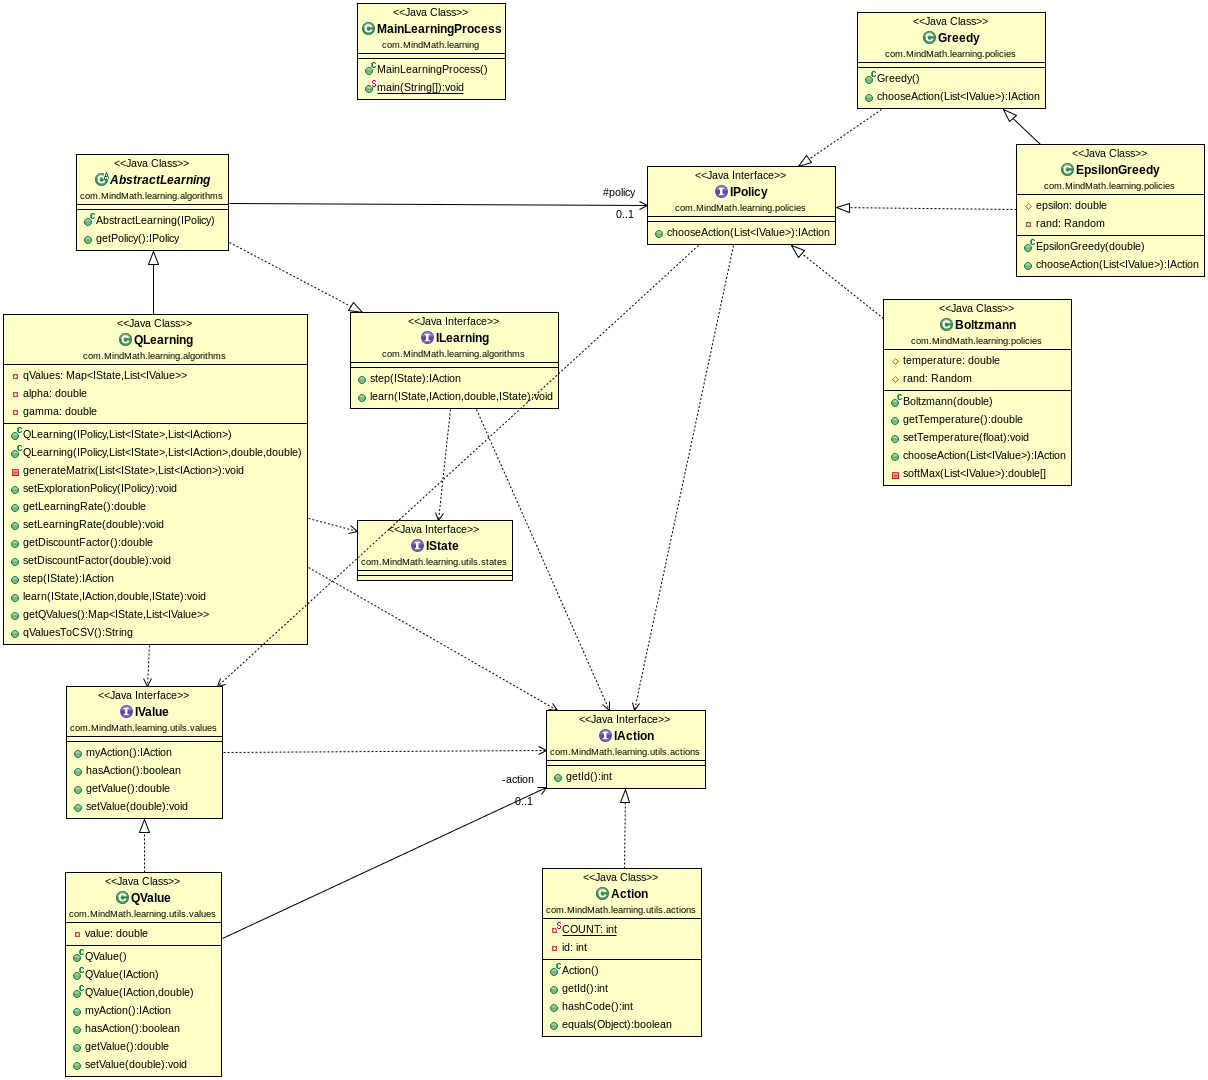
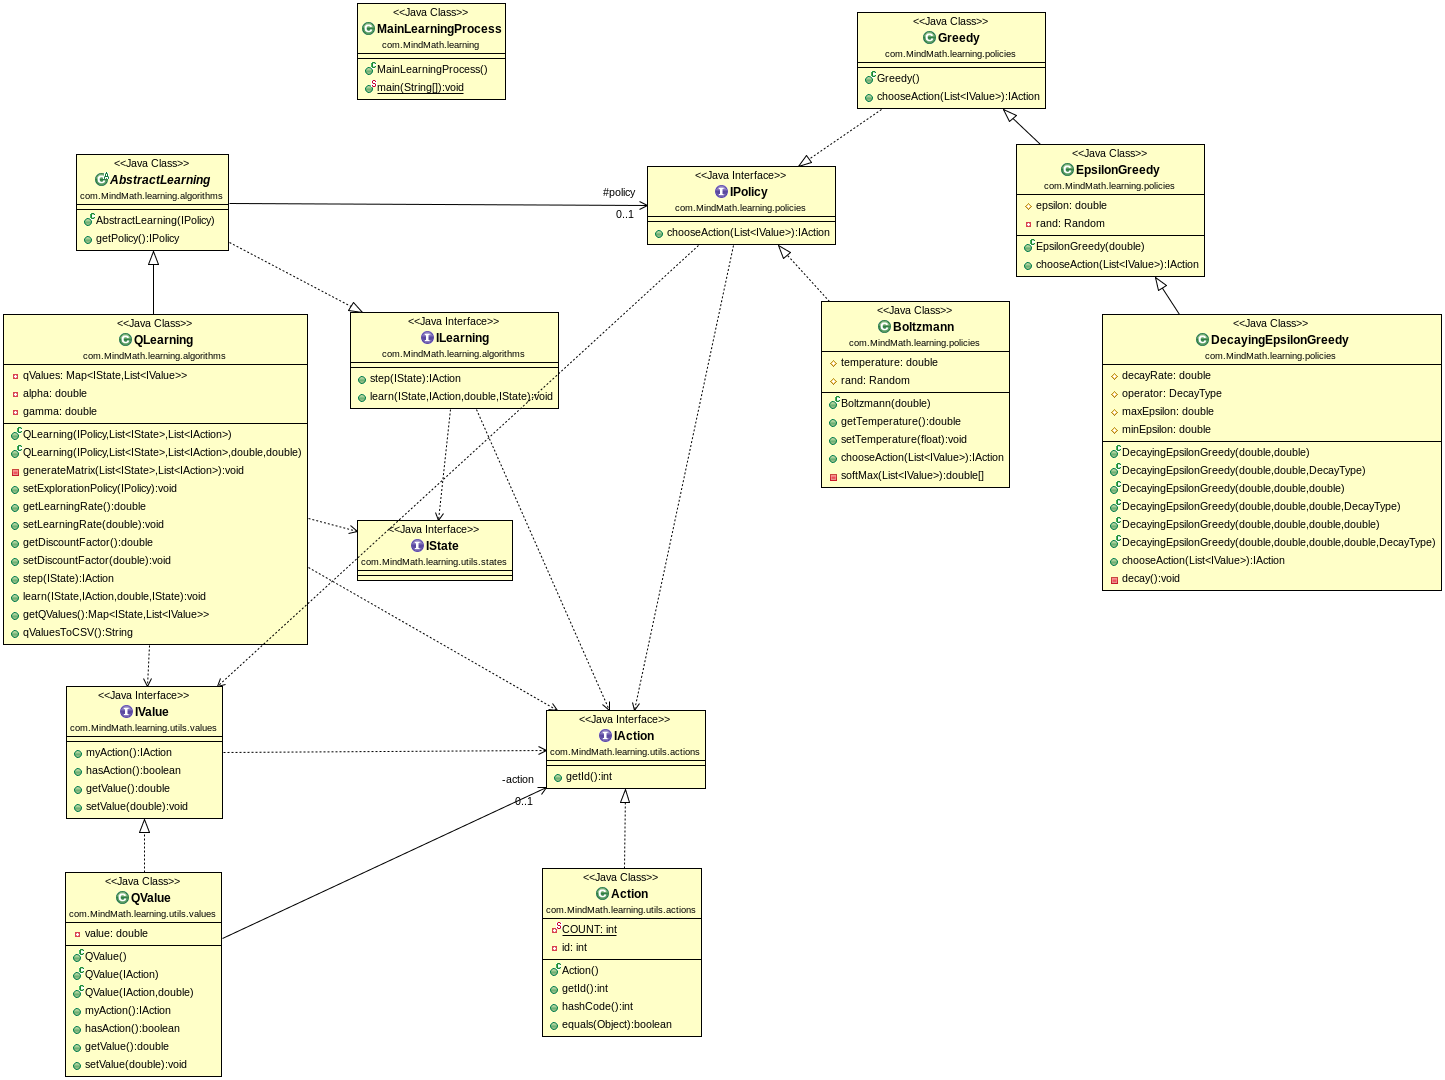
Decaying Epsilon Greedy policy

diff --git a/src/main/java/com/MindMath/learning/policies/DecayingEpsilonGreedy.java b/src/main/java/com/MindMath/learning/policies/DecayingEpsilonGreedy.java
@@ -1,0 +1,121 @@
+/**
+ *
+ */
+package com.MindMath.learning.policies;
+
+import java.util.List;
+
+import com.MindMath.learning.utils.actions.IAction;
+import com.MindMath.learning.utils.values.IValue;
+
+/**
+ * @author Thibaut SIMON-FINE
+ *
+ */
+public class DecayingEpsilonGreedy extends EpsilonGreedy {
+	protected double decayRate;
+	protected DecayType operator;
+	protected double maxEpsilon;
+	protected double minEpsilon;
+
+	/**
+	 * @param epsilon
+	 * @param decayRate
+	 */
+	public DecayingEpsilonGreedy(double epsilon, double decayRate) {
+		this(epsilon, decayRate, 0, 1, DecayType.SUBSTRACT);
+	}
+
+	/**
+	 * @param epsilon
+	 * @param decayRate
+	 * @param operation
+	 */
+	public DecayingEpsilonGreedy(double epsilon, double decayRate, DecayType operation) {
+		this(epsilon, decayRate, 0, 1, operation);
+	}
+
+	/**
+	 * @param epsilon
+	 * @param decayRate
+	 * @param minEpsilon
+	 */
+	public DecayingEpsilonGreedy(double epsilon, double decayRate, double minEpsilon) {
+		this(epsilon, decayRate, minEpsilon, 1, DecayType.SUBSTRACT);
+	}
+
+	/**
+	 * @param epsilon
+	 * @param decayRate
+	 * @param minEpsilon
+	 * @param operation
+	 */
+	public DecayingEpsilonGreedy(double epsilon, double decayRate, double minEpsilon, DecayType operation) {
+		this(epsilon, decayRate, minEpsilon, 1, operation);
+	}
+
+	/**
+	 * @param epsilon
+	 * @param decayRate
+	 * @param minEpsilon
+	 * @param maxEpsilon
+	 */
+	public DecayingEpsilonGreedy(double epsilon, double decayRate, double minEpsilon, double maxEpsilon) {
+		this(epsilon, decayRate, minEpsilon, maxEpsilon, DecayType.SUBSTRACT);
+	}
+
+	/**
+	 * @param epsilon
+	 * @param decayRate
+	 * @param minEpsilon
+	 * @param maxEpsilon
+	 * @param operation
+	 */
+	public DecayingEpsilonGreedy(double epsilon, double decayRate, double minEpsilon, double maxEpsilon,
+			DecayType operation) {
+		super(epsilon);
+		this.decayRate = decayRate;
+		this.operator = operation;
+		this.maxEpsilon = maxEpsilon;
+		this.minEpsilon = minEpsilon;
+	}
+
+	@Override
+	public IAction chooseAction(List<IValue> values) {
+		IAction action = super.chooseAction(values);
+
+		decay();
+
+		return action;
+	}
+
+	/**
+	 * Modify the epsilon value based on parameters of the policy (call after each
+	 * chooseAction call)
+	 */
+	private void decay() {
+		double newEpsilon = this.epsilon;
+
+		switch (this.operator) {
+		case ADD:
+			newEpsilon += this.decayRate;
+			break;
+
+		case DIVIDE:
+			newEpsilon /= this.decayRate;
+			break;
+
+		case MULTIPLY:
+			newEpsilon *= this.decayRate;
+			break;
+
+		case SUBSTRACT:
+		default:
+			newEpsilon -= this.decayRate;
+			break;
+		}
+
+		// Bound epsilon
+		this.epsilon = Math.min(Math.max(newEpsilon, this.minEpsilon), this.maxEpsilon);
+	}
+}

diff --git a/src/main/java/com/MindMath/learning/MainLearningProcess.java b/src/main/java/com/MindMath/learning/MainLearningProcess.java
@@ -28,15 +28,15 @@ public class MainLearningProcess {
 	 */
 	public static void main(String[] args) {
 		// Comment to test
-		if (true)
-			return;
+//		if (true)
+//			return;
 
 		Grille testEnv = new Grille();
 //		IPolicy policy = new Boltzmann(0.5);
 		IPolicy policy = new EpsilonGreedy(0.7);
 		QLearning qLearning = new QLearning(policy, testEnv.getStates(), testEnv.getActions());
 
-		for (int i = 0; i < 10000; i++) {
+		for (int i = 0; i < 50; i++) {
 			System.out.println("----------\nITERATION " + (i + 1) + "\n----------");
 
 			testEnv.reset();

diff --git a/src/main/java/com/MindMath/learning/policies/EpsilonGreedy.java b/src/main/java/com/MindMath/learning/policies/EpsilonGreedy.java
@@ -13,7 +13,7 @@ import com.MindMath.learning.utils.values.IValue;
  * @author Thibaut SIMON-FINE
  *
  */
-public class EpsilonGreedy extends Greedy implements IPolicy {
+public class EpsilonGreedy extends Greedy {
 	protected double epsilon;
 	private Random rand;
 

diff --git a/src/main/java/com/MindMath/learning/policies/DecayType.java b/src/main/java/com/MindMath/learning/policies/DecayType.java
@@ -1,0 +1,12 @@
+/**
+ *
+ */
+package com.MindMath.learning.policies;
+
+/**
+ * @author Thibaut SIMON-FINE
+ *
+ */
+public enum DecayType {
+	SUBSTRACT, ADD, MULTIPLY, DIVIDE;
+}
